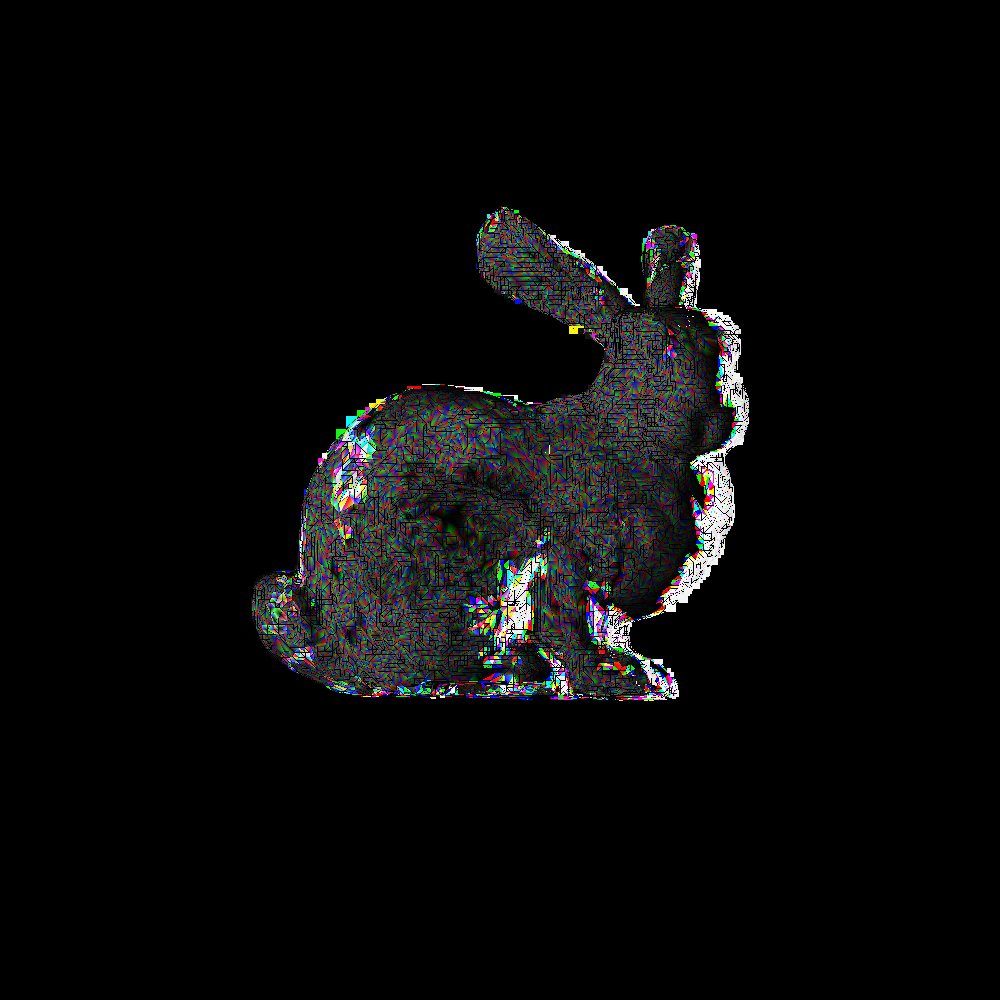
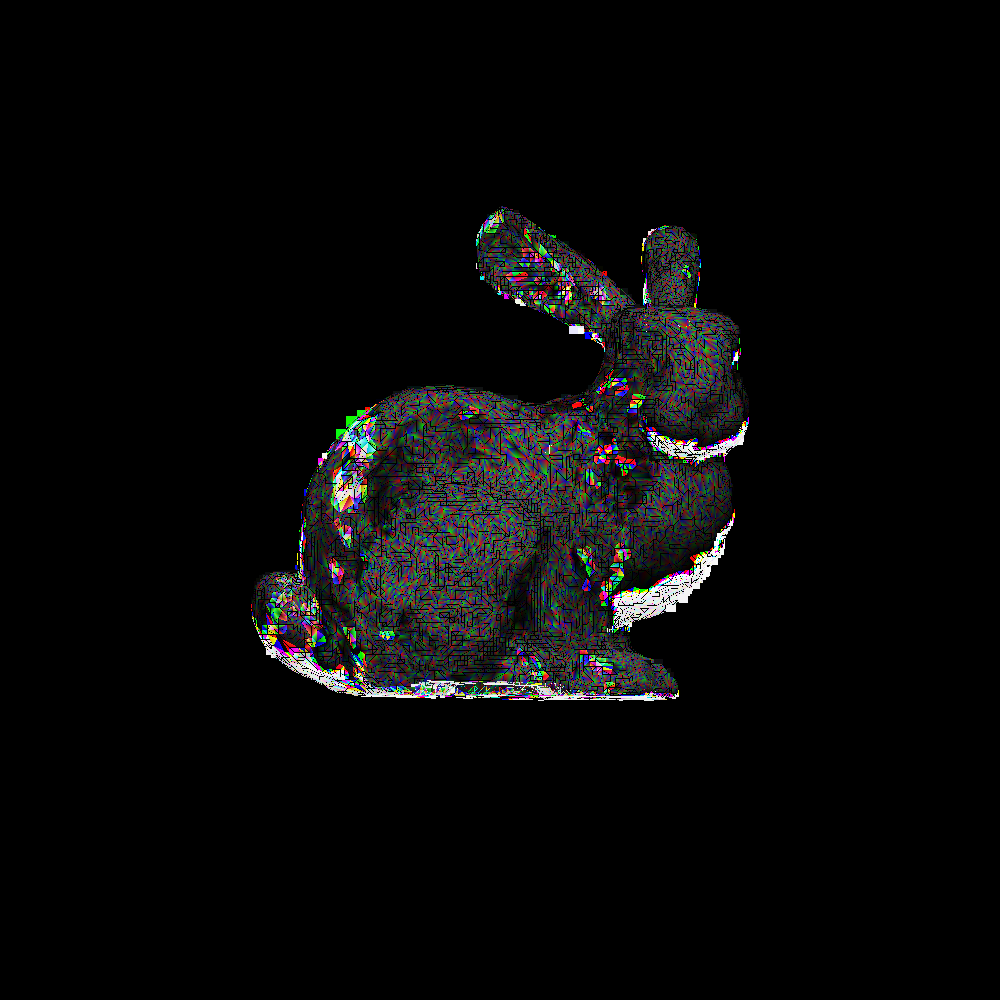
Guru_normals

Changed region(s): [[0.248, 0.186, 0.775, 0.713]]

diff --git a/main.py b/main.py
@@ -91,6 +91,8 @@ class image_obj:
                 if xsplit[0] == "f":
                     self.poly.append(
                         list(map(int, [xsplit[1].split('/')[0], xsplit[2].split('/')[0], xsplit[3].split('/')[0]])))
+                    self.readed_normals.append(
+                        list(map(int, [xsplit[1].split('/')[2], xsplit[2].split('/')[2], xsplit[3].split('/')[2]])))
                     self.normals.append(
                         kg_algs.triangle_normal(self.verts[self.poly[-1][0] - 1], self.verts[self.poly[-1][1] - 1],
                                                 self.verts[self.poly[-1][2] - 1]))
@@ -130,7 +132,7 @@ class image_obj:
         image.save(filename)
 
     def draw_triangle(self, x0, y0, z0, x1, y1, z1, x2, y2, z2, k, tcos, n0, n1, n2):
-        light = [1,0,1]
+        light = [0,1,1]
         x0, y0 = self.projective_transform(x0, y0, z0, d)
         x1, y1 = self.projective_transform(x1, y1, z1, d)
         x2, y2 = self.projective_transform(x2, y2, z2, d)
@@ -197,8 +199,6 @@ model2 = image_obj()
 model1.read_vert(open("model_1.obj", "r"))
 model2.read_vert(open("model_2.obj", "r"))
 
-model1.read_norms(open("model_1.obj", "r"))
-model2.read_norms(open("model_2.obj", "r"))
 
 model1.read_poly(open("model_1.obj", "r"))
 model2.read_poly(open("model_2.obj", "r"))
